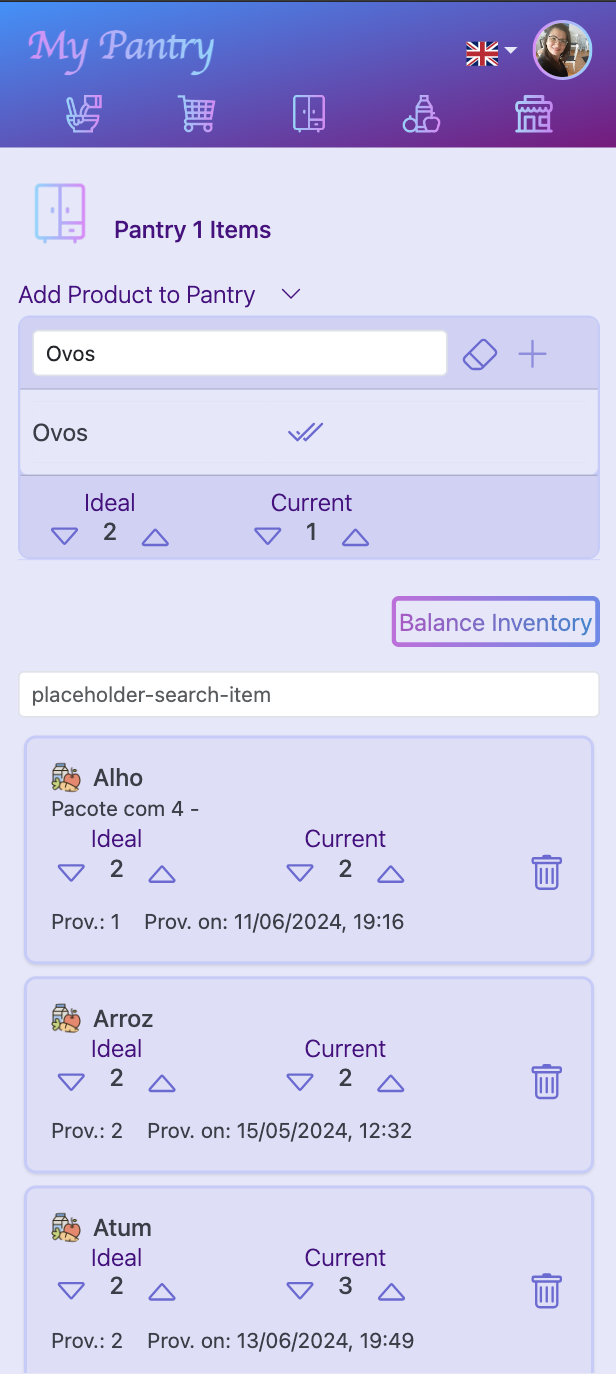
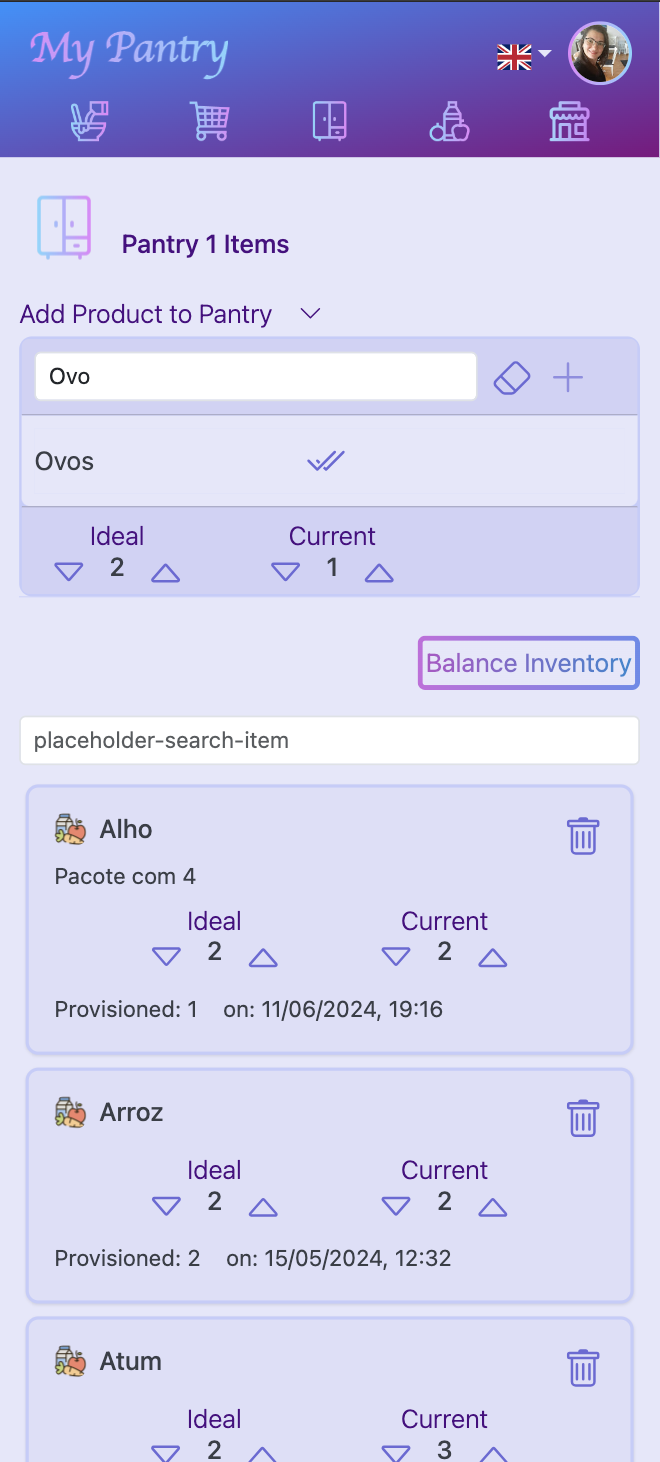
feature: small fixes

diff --git a/pantry-web/src/components/PantryItemList.js b/pantry-web/src/components/PantryItemList.js
@@ -79,32 +79,6 @@ function PantryItemList({ pantryId, setIsEmpty }) {
         //showAlert(VariantType.SUCCESS, t('update-item-success'));
     }
 
-    function renderItems() {
-        return filteredItems.map((item) => renderItem(item))
-    }
-
-    function renderItem(item) {
-        return (
-            <tr key={item.product.id} className="border border-primary-subtle align-middle">
-                <td>
-                    <Stack direction="horizontal" gap={2}>
-                        <div><Image src={food} width={20} height={20} rounded /></div>
-                        <div><span className='text-wrap'>{camelCase(item.product.code)}</span></div>
-                    </Stack>
-                    <p className='d-none d-md-block ms-4 mb-0' hidden={item.product.description === ''}>
-                        {item.product.description}  {item.product.size}
-                    </p>
-                </td>
-                <td><NumericField key={item.idealQty} object={item} attribute="idealQty" onValueChange={handleSave} /></td>
-                <td><NumericField key={item.currentQty} object={item} attribute="currentQty" onValueChange={handleSave} /></td>
-                <td className='ms-0 pe-0 text-center'><span>{item.provisionedQty}</span></td>
-                <td className='ms-0 ps-0 me-1 pe-2'>
-                    <Button onClick={() => handleRemove(item)} variant="link" className='pt-0 pb-0 pe-0'><BsTrash className='icon' /></Button>
-                </td>
-            </tr >
-        )
-    }
-
     function filter(text) {
         if (text && text.length > 0)
             setFilteredItems(pantryItems.filter(item => item.product.code.toUpperCase().includes(text.toUpperCase())));
@@ -129,19 +103,15 @@ function PantryItemList({ pantryId, setIsEmpty }) {
                                 <Image src={food} width={20} height={20} rounded />
                                 <Card.Title as="h6" className='mb-0'><span className='text-wrap'>{camelCase(item.product.code)}</span></Card.Title>
                             </div>
-
+                            <Button onClick={() => handleRemove(item)} variant="link" className='pt-0 pb-0 pe-0'><BsTrash className='icon' /></Button>
                         </div>
 
-                        <div className="d-flex justify-content-between " >
-                            <div className='d-flex flex-column'>
-                                <span className="mt-0 small" hidden={item.product.description === ''}>
-                                    {item.product.description} - {item.product.size}
-                                </span>
-                            </div>
-
+                        <div className='d-flex gap-2 mb-2'>
+                            <span className="small">{item.product.description}</span>
+                            <span className="small">{item.product.size}</span>
                         </div>
 
-                        <div className="d-flex  justify-content-between align-items-end mb-2 mt-2 mt-auto">
+                        <div className="d-flex justify-content-evenly align-items-end mt-auto">
                             <div className="d-flex flex-column align-items-center">
                                 <h6 className='simple-title'>{t('ideal', { ns: 'common' })}</h6>
                                 <CurrentQuantityField object={item} attribute="idealQty" onValueChange={handleSave} />
@@ -150,10 +120,10 @@ function PantryItemList({ pantryId, setIsEmpty }) {
                                 <h6 className='simple-title'>{t('current', { ns: 'common' })}</h6>
                                 <CurrentQuantityField object={item} attribute="currentQty" onValueChange={handleSave} />
                             </div>
-                            <Button onClick={() => handleRemove(item)} variant="link" className='pt-0 pb-0 pe-0'><BsTrash className='icon' /></Button>
+                           
                         </div>
 
-                        <div className="d-flex gap-3">
+                        <div className="d-flex gap-3 mt-2">
                             <span className="small" hidden={item.lastProvisioning === null}>{t('provisioned', { ns: 'common' })}: {item.provisionedQty}</span>
                             <span className="small" hidden={item.lastProvisioning === null}>{t('provisioned-on', { ns: 'common' })}: {item.lastProvisioning ? t('datetime', { ns: "common", date: new Date(item.lastProvisioning) }) : ""}</span>
                         </div>
@@ -171,24 +141,6 @@ function PantryItemList({ pantryId, setIsEmpty }) {
             <Row xs={1} md={2} lg={3} className='m-0'>
                 {renderCards()}
             </Row>
-
-
-            {/* <div className='scroll-pantryItems'>
-                <Table>
-                    <thead>
-                        <tr key="0:0" className="align-middle">
-                            <th><span className='title'>{t('code-description', { ns: 'common' })}</span></th>
-                            <th><span className='title'>{t('ideal', { ns: 'common' })}</span></th>
-                            <th ><span className='title'>{t('current', { ns: 'common' })}</span></th>
-                            <th className='ms-0 ps-0'><span className="title">{t('provisioned', { ns: 'common' })}</span></th>
-                            <th className='ms-0 ps-0 me-2 pe-2'></th>
-                        </tr>
-                    </thead>
-                    <tbody >
-                        {renderItems()}
-                    </tbody>
-                </Table>
-            </div> */}
         </div>
     );
 }

diff --git a/pantry-web/src/pages/Pantry.js b/pantry-web/src/pages/Pantry.js
@@ -1,17 +1,14 @@
 import React, { useEffect, useState } from 'react';
 import { useParams } from 'react-router';
-import { getPantry, updatePantry, createPantry, createPantryItem, getPantryRebalance } from '../services/apis/mypantry/requests/PantryRequests.js';
-import Stack from 'react-bootstrap/Stack';
+import { getPantry, updatePantry, createPantry} from '../services/apis/mypantry/requests/PantryRequests.js';
 import VariantType from '../components/VariantType.js';
 import useAlert from '../hooks/useAlert.js';
 import PantryForm from '../components/PantryForm.js';
-import PantryItemList from '../components/PantryItemList.js';
 import Button from 'react-bootstrap/Button';
 import { getAccountGroupList } from '../services/apis/mypantry/requests/AccountRequests.js';
 import { useTranslation } from 'react-i18next';
 import { Image } from 'react-bootstrap';
 import iconPantry from '../assets/images/cupboard-gradient.png';
-import { BsCardChecklist } from 'react-icons/bs';
 
 export default function Pantry({ mode }) {
 
@@ -19,8 +16,6 @@ export default function Pantry({ mode }) {
 
     let { id } = useParams();
     const [accountGroupOptions, setAccountGroupOptions] = useState([]);
-    const [showPantry, setShowPantry] = useState(true);
-    const [isEmpty, setIsEmpty] = useState(true);
 
     const [pantry, setPantry] = useState(
         {
@@ -32,7 +27,6 @@ export default function Pantry({ mode }) {
         });
 
     const [isLoading, setIsLoading] = useState(false);
-    const [refresh, setRefresh] = useState(false);
     const { showAlert } = useAlert();
 
     useEffect(() => {
@@ -80,21 +74,6 @@ export default function Pantry({ mode }) {
         }
     }
 
-    async function fetchPantryRebalance() {
-        setIsLoading(true);
-        setRefresh(true);
-        try {
-            await getPantryRebalance(id);
-
-            showAlert(VariantType.SUCCESS, t('balance-success'));
-        } catch (error) {
-            showAlert(VariantType.DANGER, error.message);
-        } finally {
-            setRefresh(false);
-            setIsLoading(false);
-        }
-    }
-
     async function fetchSavePantry(body) {
         setIsLoading(true);
         try {
@@ -109,41 +88,6 @@ export default function Pantry({ mode }) {
         } finally {
             setIsLoading(false);
         }
-    }
-
-    async function fetchSavePantryItem(body) {
-        setIsLoading(true);
-        setRefresh(true);
-        try {
-            await createPantryItem(pantry.id, body);
-            showAlert(VariantType.SUCCESS, t('add-item-success'));
-        } catch (error) {
-            showAlert(VariantType.DANGER, error.message);
-        } finally {
-            setRefresh(false);
-            setIsLoading(false);
-        }
-    }
-
-    function handleAddItem(product) {
-        const body = {
-            pantry: pantry,
-            product: product
-        }
-        fetchSavePantryItem(body);
-    }
-
-    function handleRebalance() {
-        fetchPantryRebalance();
-    }
-
-    function renderPantryList() {
-        return (
-            <Stack gap={2}>
-                <div className="d-flex justify-content-end"><Button bsPrefix='btn-custom' size="sm" onClick={handleRebalance} title={t('tooltip-btn-balance-inventory')} disabled={isEmpty}><span className="gradient-text">{t('btn-balance-inventtory')}</span></Button></div>
-                <div><PantryItemList key={refresh} pantryId={pantry.id} setIsEmpty={setIsEmpty} /></div>
-            </Stack>
-        )
     }
 
     return (

diff --git a/pantry-web/src/components/Header.js b/pantry-web/src/components/Header.js
@@ -37,16 +37,17 @@ export default function Header() {
                 <div className="menu">
                     <OverlayTrigger placement="bottom" delay={{ show: 250, hide: 400 }} overlay={<Tooltip className="custom-tooltip">{t("tooltip-consume")}</Tooltip>}>
                         <Nav.Item><Nav.Link href={"/pantries/consume"} eventKey="link-consume" className="menuItem" disabled={!hasActiveProfile} >
-                            <Image src={iconConsume} className="menu-icon" /></Nav.Link>
+                            <div className="gradient-icon-box"><Image src={iconConsume} className="menu-icon" /></div></Nav.Link>
                         </Nav.Item>
                     </OverlayTrigger>
                     <OverlayTrigger placement="bottom" delay={{ show: 250, hide: 400 }} overlay={<Tooltip className="custom-tooltip">{t("tooltip-purchase")}</Tooltip>}>
                         <Nav.Item>
                             <Nav.Link href="/purchase" eventKey="link-purchases" className="menuItem" disabled={!hasActiveProfile}>
-                                <Image src={iconPurchase} className="menu-icon" />
+                            <div className="gradient-icon-box"><Image src={iconPurchase} className="menu-icon" /></div>
                             </Nav.Link>
                         </Nav.Item>
                     </OverlayTrigger>
+                    
                     <OverlayTrigger placement="bottom" delay={{ show: 250, hide: 400 }} overlay={<Tooltip className="custom-tooltip">{t("tooltip-pantries")}</Tooltip>}>
                         <Nav.Item><Nav.Link href="/pantries" eventKey="link-pantries" className="menuItem" disabled={!hasActiveProfile}>
                             <Image src={iconPantry} className="menu-icon" />

diff --git a/pantry-web/src/pages/Consume.js b/pantry-web/src/pages/Consume.js
@@ -100,8 +100,8 @@ export default function Consume() {
 
             <div className="d-flex justify-content-between " >
               <div className='d-flex flex-column'>
-                <span className="mt-0 small" hidden={item.product.description === '' || !expand}>
-                  {item.product.description} - {item.product.size}
+                <span className="mt-0 small" hidden={!expand}>
+                  {item.product.description} {item.product.size}
                 </span>
                 <span className='text-wrap small' hidden={!showPantryCol}>{item.pantry.name}</span>
               </div>
@@ -109,7 +109,7 @@ export default function Consume() {
             </div>
 
             <div className="d-flex gap-3 mt-auto">
-              <span className="small">{t('provisioned', { ns: 'common' })}: {item.provisionedQty}</span>
+              <span className="small" hidden={item.lastProvisioning === null}>{t('provisioned', { ns: 'common' })}: {item.provisionedQty}</span>
               <span className="small" hidden={item.lastProvisioning === null}>{t('provisioned-on', { ns: 'common' })}: {item.lastProvisioning ? t('datetime', { ns: "common", date: new Date(item.lastProvisioning) }) : ""}</span>
             </div>
 

diff --git a/pantry-web/src/components/PantryForm.js b/pantry-web/src/components/PantryForm.js
@@ -77,15 +77,14 @@ export default function PantryForm({ pantry, handleSave, accountGroupOptions }) 
 
 
     return (
-        <Form onSubmit={handleSubmit}>
+        <Form onSubmit={handleSubmit} className="ms-2">
             <Row>
                 <Form.Group className="mb-2" controlId="formAccountGroups" size="sm">
-                    {isLoading ? <span>Loading...</span> :
-                        <Select name="accountGroup" key={accountGroupOption.value}
-                            defaultValue={accountGroupOption}
-                            options={accountGroupOptions}
-                            onChange={setAccountGroupOption} />
-                    }
+                    <Form.Label size="sm" className="title mb-1">{t('account-group', { ns: 'common' })}</Form.Label>
+                    <Select name="accountGroup" key={accountGroupOption.value}
+                        defaultValue={accountGroupOption}
+                        options={accountGroupOptions}
+                        onChange={setAccountGroupOption} />
                 </Form.Group>
             </Row>
             <Row>

diff --git a/pantry-web/src/components/PurchaseItemList.js b/pantry-web/src/components/PurchaseItemList.js
@@ -284,8 +284,8 @@ function PurchaseItemList({ purchase, selectedPantries, setOuterPurchaseItems },
 
                         <div className="d-flex justify-content-between " >
                             <div className='d-flex flex-column'>
-                                <span className="mt-0 small" hidden={item.product.description === '' || !expandProdDetail}>
-                                    {item.product.description} - {item.product.size}
+                                <span className="mt-0 small" hidden={!expandProdDetail}>
+                                    {item.product.description} {item.product.size}
                                 </span>
                                 <span className='text-wrap small' hidden={!showPantryCol}>{item.pantryName}</span>
                             </div>

diff --git a/pantry-web/src/pages/Product.js b/pantry-web/src/pages/Product.js
@@ -131,7 +131,7 @@ export default function Product() {
                 <div>
                     <div className="me-3 mb-3 d-flex justify-content-start align-items-end">
                         <Image src={iconProduct} width={40} height={40} className='ms-3 me-3 ' />
-                        <h6 className='title'>{t('product-title')}: {product.code}</h6>
+                        <h6 className='title'>{t('product-title', { product: product.code })}</h6>
                         <CloseButton className="ms-auto" aria-label="Hide" onClick={handleClearAction} />
                     </div>
                     <ProductForm key={productLabel} product={product} categories={categories} accountGroupOptions={accountGroupOptions} handleSave={handleSave} />

diff --git a/pantry-web/src/assets/styles/Header.scss b/pantry-web/src/assets/styles/Header.scss
@@ -203,6 +203,23 @@ $gradient-color: linear-gradient(90deg, rgba(228, 132, 252, 1) 0%, rgba(132, 212
     text-align: center;
 }
 
+.gradient-icon-box {
+    background: transparent;
+    height: 45px;
+    width: 45px;
+    background-image: linear-gradient(90deg, rgb(53, 53, 146), rgb(131, 14, 131)),
+    linear-gradient(90deg, hsl(289, 65%, 64%), hsl(226, 78%, 67%));
+    background-clip: padding-box, border-box;
+    background-origin: border-box;
+    border: 3px solid transparent;
+    border-radius: 50%;
+
+    display: inline-flex;
+    justify-content: center;
+    align-items: center;
+    text-align: center;
+}
+
 .gradient-label {
     background-image: linear-gradient(90deg,
             hsl(289, 52%, 55%),

diff --git a/pantry-web/src/components/ProductForm.js b/pantry-web/src/components/ProductForm.js
@@ -74,7 +74,7 @@ export default function ProductForm({ product, accountGroupId, categories, accou
     }
 
     return (
-        <Form onSubmit={handleSubmit}>
+        <Form onSubmit={handleSubmit} className="ms-2">
             <Row>
                 <Form.Group as={Col} className="mb-2" controlId="formAccountGroups" size="sm">
                     <Form.Label size="sm" className="title mb-1">{t('account-group', { ns: 'common' })}</Form.Label>

diff --git a/pantry-web/src/pages/PantryItems.js b/pantry-web/src/pages/PantryItems.js
@@ -1,7 +1,6 @@
 import React, { useEffect, useState } from 'react';
 import { useParams } from 'react-router';
 import { getPantry, createPantryItem, getPantryRebalance } from '../services/apis/mypantry/requests/PantryRequests.js';
-import Stack from 'react-bootstrap/Stack';
 import VariantType from '../components/VariantType.js';
 import useAlert from '../hooks/useAlert.js';
 import ProductSearchBar from '../components/ProductSearchBar.js'
